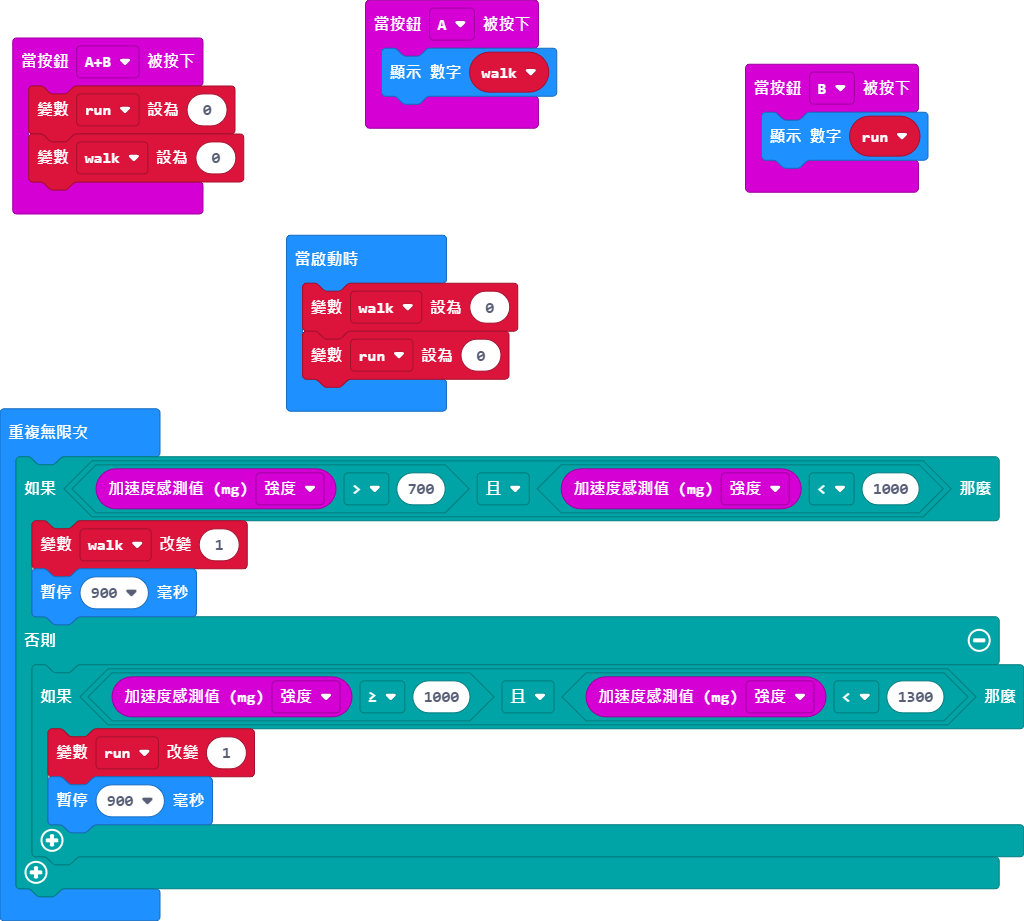
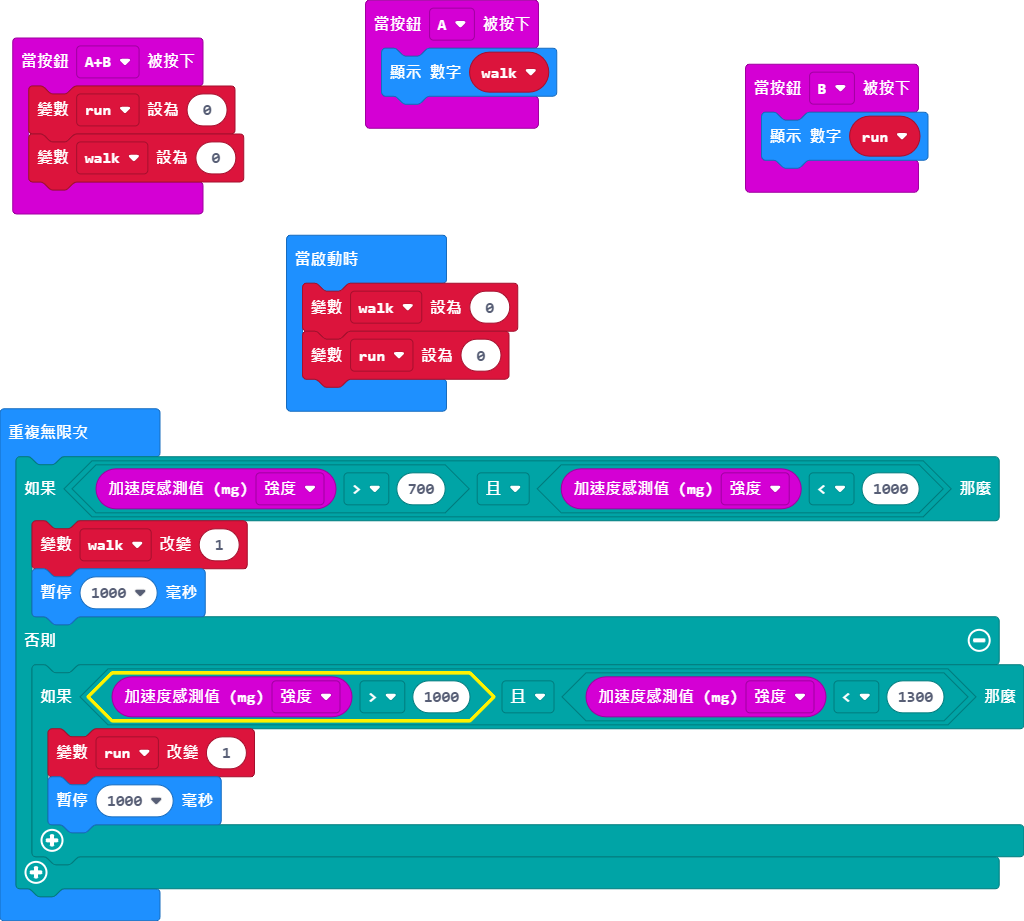
更新 main.blocks, main.ts

Changed region(s): [[0.0938, 0.7296, 0.4688, 0.7904], [0.0938, 0.608, 0.2188, 0.6688], [0.125, 0.8512, 0.2188, 0.9121]]

diff --git a/main.ts b/main.ts
@@ -15,11 +15,11 @@ run = 0
 basic.forever(function () {
     if (input.acceleration(Dimension.Strength) > 700 && input.acceleration(Dimension.Strength) < 1000) {
         walk += 1
-        basic.pause(900)
+        basic.pause(1000)
     } else {
-        if (input.acceleration(Dimension.Strength) >= 1000 && input.acceleration(Dimension.Strength) < 1300) {
+        if (input.acceleration(Dimension.Strength) > 1000 && input.acceleration(Dimension.Strength) < 1300) {
             run += 1
-            basic.pause(900)
+            basic.pause(1000)
         }
     }
 })
